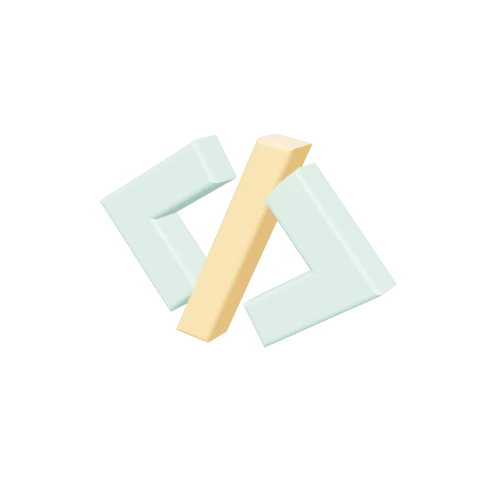
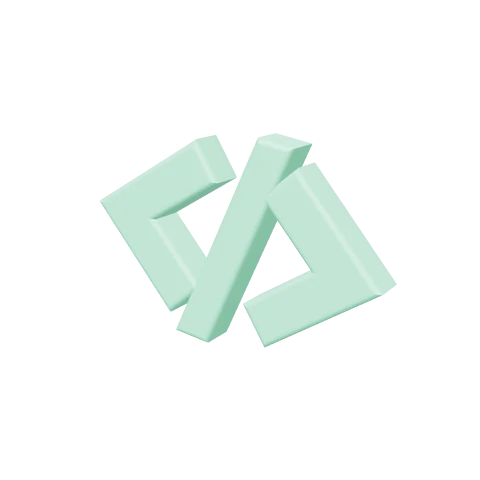
feat(site): warm hero palette, sticky header, centred back-to-top
- Hero and intro story use amber (#f2be7e) in light mode and salmon
  (#ef7e6c) in dark mode, with dark ink for AA contrast; the alternate
  section surface and hero chips follow the new hues, and the dark
  footer uses the salmon with the original dark text.
- Code glyph uses a matte version of the terminal prompt mint.
- Header turns into a fixed translucent bar once the opening story has
  scrolled past, so it never covers the terminal transition.
- Back-to-top sits at the bottom centre and hides over the footer,
  which has its own link.
- "Roots in Pará" becomes "Roots in the Amazon" in all locales.

Changed region(s): [[0.2188, 0.2812, 0.8438, 0.7188]]

diff --git a/apps/site/app/globals.css b/apps/site/app/globals.css
@@ -5,13 +5,14 @@
   --secondary: light-dark(#525e54, #bfcac1);
   --surface-line: light-dark(#c7cec5, #49584f);
   --coral: #ef604f;
-  --hero-coral: light-dark(#c44437, #4a2440);
-  --footer-coral: light-dark(#ef604f, #4a2440);
-  --surface-alt: light-dark(#f8e7e0, #2a1f28);
-  --hero-chip: light-dark(#ef604f, #5e2e52);
-  --footer-ink: light-dark(#34150f, #fff4e9);
-  --footer-accent: light-dark(#fffaf4, #f6c2b6);
-  --footer-line: light-dark(#823b3260, #fff4e940);
+  --hero-coral: light-dark(#f2be7e, #ef7e6c);
+  --hero-ink: #2a1712;
+  --footer-coral: light-dark(#ef604f, #ef7e6c);
+  --surface-alt: light-dark(#f9ecdc, #2d2321);
+  --hero-chip: light-dark(#f5cc96, #f29383);
+  --footer-ink: #34150f;
+  --footer-accent: light-dark(#fffaf4, #6b2a1e);
+  --footer-line: #823b3260;
   --ink: #191b1b;
   --paper: #f5f4f0;
   --mint: #d2e8d9;
@@ -33,7 +34,7 @@ html[data-theme="dark"] {
 }
 html {
   scroll-behavior: smooth;
-  scroll-padding-top: 30px;
+  scroll-padding-top: 96px;
 }
 body {
   margin: 0;
@@ -136,7 +137,7 @@ button:hover > .arrow {
   gap: 56px;
   align-items: center;
   padding: 25px 3.5%;
-  color: #fffaf4;
+  color: var(--hero-ink);
 }
 .brand {
   font-size: 49px;
@@ -223,7 +224,7 @@ button:hover > .arrow {
   display: flex;
   align-items: center;
   justify-content: center;
-  color: #fffaf4;
+  color: var(--hero-ink);
   isolation: isolate;
 }
 .hero-world {
@@ -280,7 +281,6 @@ button:hover > .arrow {
   letter-spacing: -0.068em;
   line-height: 1.03;
   margin: 0;
-  text-shadow: 0 1px 15px #83332712;
 }
 .hero h1 > span:first-child {
   display: block;
@@ -2245,7 +2245,6 @@ main[tabindex="-1"]:focus {
 }
 .hero h1 {
   font-size: clamp(60px, 7.5vw, 126px);
-  text-shadow: 0 2px 18px #732c2440;
 }
 .typed-line {
   font-size: 0.94em;
@@ -2873,7 +2872,7 @@ svg.solution-expand {
   .mobile-menu summary {
     list-style: none;
     padding: 10px;
-    color: #fffaf4;
+    color: var(--hero-ink);
   }
   .mobile-menu nav {
     position: absolute;
@@ -3145,9 +3144,9 @@ svg.solution-expand {
   box-shadow: none;
   padding-inline: 0;
   text-shadow:
-    0 1px 1px #ef604f,
-    0 0 10px #ef604f,
-    0 0 24px #ef604fd9;
+    0 1px 1px var(--hero-coral),
+    0 0 10px var(--hero-coral),
+    0 0 24px var(--hero-coral);
 }
 .hero-description {
   max-width: 560px;
@@ -3945,15 +3944,7 @@ a.footer-channel:hover .footer-channel-icon {
 .hero .hero-description,
 .hero .hero-start,
 .hero .hero-bottom {
-  color: #fffaf4;
-}
-.hero .eyebrow,
-.hero .hero-description,
-.hero .hero-start {
-  text-shadow: 0 2px 14px #3d17143d;
-}
-.hero h1 {
-  text-shadow: 0 2px 24px #3d17142e;
+  color: var(--hero-ink);
 }
 .footer-wordmark {
   display: inline-block;
@@ -3995,11 +3986,11 @@ a.footer-channel:hover .footer-channel-icon {
 .back-to-top {
   position: fixed;
   z-index: 9;
-  right: 22px;
-  bottom: 76px;
+  left: 50%;
+  bottom: 20px;
   opacity: 0;
   visibility: hidden;
-  translate: 0 12px;
+  translate: -50% 12px;
   transition:
     opacity 0.25s,
     translate 0.25s,
@@ -4008,7 +3999,7 @@ a.footer-channel:hover .footer-channel-icon {
 .back-to-top[data-visible="true"] {
   opacity: 1;
   visibility: visible;
-  translate: 0 0;
+  translate: -50% 0;
   transition:
     opacity 0.25s,
     translate 0.25s;
@@ -4034,8 +4025,7 @@ a.footer-channel:hover .footer-channel-icon {
 }
 @media (max-width: 767px) {
   .back-to-top {
-    right: 14px;
-    bottom: 66px;
+    bottom: 14px;
   }
 }
 @media (prefers-reduced-motion: reduce) {
@@ -4043,5 +4033,33 @@ a.footer-channel:hover .footer-channel-icon {
   .back-to-top[data-visible="true"],
   .back-to-top a {
     transition: none;
+  }
+}
+.site-header[data-stuck="true"] {
+  position: fixed;
+  z-index: 20;
+  padding-block: 12px;
+  color: var(--text);
+  background: color-mix(in srgb, var(--surface) 88%, transparent);
+  backdrop-filter: blur(14px) saturate(1.2);
+  border-bottom: 1px solid var(--surface-line);
+  animation: header-in 0.35s ease both;
+}
+.site-header[data-stuck="true"] > nav,
+.site-header[data-stuck="true"] .site-preferences,
+.site-header[data-stuck="true"] .mobile-menu summary {
+  color: var(--text);
+}
+.site-header[data-stuck="true"] .brand {
+  font-size: 36px;
+}
+@keyframes header-in {
+  from {
+    translate: 0 -100%;
+  }
+}
+@media (prefers-reduced-motion: reduce) {
+  .site-header[data-stuck="true"] {
+    animation: none;
   }
 }

diff --git a/apps/site/tests/site.test.tsx b/apps/site/tests/site.test.tsx
@@ -48,26 +48,49 @@ describe("institutional experience", () => {
     expect(location.hash).toBe("");
     expect(document.querySelectorAll('a[href^="#"]')).toHaveLength(0);
   });
-  it("offers a back-to-top control once the hero leaves the viewport", async () => {
-    let leave: (visible: boolean) => void = () => {};
+  it("reveals back-to-top and the sticky header after the opening story", async () => {
+    type Callback = (
+      entries: {
+        target: Element;
+        isIntersecting: boolean;
+        boundingClientRect: { top: number };
+      }[],
+    ) => void;
+    const watchers = new Map<Element, Callback>();
     vi.stubGlobal(
       "IntersectionObserver",
       class {
-        constructor(
-          callback: (entries: { isIntersecting: boolean }[]) => void,
-        ) {
-          leave = (visible) => callback([{ isIntersecting: visible }]);
+        constructor(private callback: Callback) {}
+        observe(target: Element) {
+          watchers.set(target, this.callback);
         }
-        observe() {}
         unobserve() {}
         disconnect() {}
       },
     );
-    const { container } = render(<SiteExperience />);
+    const { container } = render(
+      <div className="intro-story">
+        <SiteExperience />
+      </div>,
+    );
+    const leave = (target: Element | null) =>
+      act(() =>
+        watchers.get(target as Element)?.([
+          {
+            target: target as Element,
+            isIntersecting: false,
+            boundingClientRect: { top: -100 },
+          },
+        ]),
+      );
     const control = container.querySelector(".back-to-top");
+    const header = container.querySelector(".site-header");
     expect(control).toHaveAttribute("data-visible", "false");
-    act(() => leave(false));
+    expect(header).toHaveAttribute("data-stuck", "false");
+    leave(document.getElementById("inicio"));
     expect(control).toHaveAttribute("data-visible", "true");
+    leave(document.querySelector(".intro-story"));
+    expect(header).toHaveAttribute("data-stuck", "true");
     await userEvent.click(within(control as HTMLElement).getByRole("link"));
     expect(document.activeElement).toHaveAttribute("id", "conteudo");
     expect(screen.queryByText(/Imagem pública da marca/)).toBeNull();

diff --git a/apps/site/components/site-experience.tsx b/apps/site/components/site-experience.tsx
@@ -181,6 +181,7 @@ export function SiteExperience({ locale = "pt-BR" }: { locale?: Locale }) {
   const router = useRouter();
   const [paused, setPaused] = useState(false);
   const [scrolled, setScrolled] = useState(false);
+  const [stuck, setStuck] = useState(false);
   const [theme, setTheme] = useState("system");
   const [chatOpen, setChatOpen] = useState(false);
   const [recommendation, setRecommendation] = useState(0);
@@ -217,14 +218,26 @@ export function SiteExperience({ locale = "pt-BR" }: { locale?: Locale }) {
     document
       .querySelectorAll("[data-reveal]")
       .forEach((element) => observer.observe(element));
-    const top = new IntersectionObserver(([entry]) =>
-      setScrolled(!entry.isIntersecting),
-    );
+    const edges = new Map<Element, boolean>();
+    const top = new IntersectionObserver((entries) => {
+      entries.forEach((entry) =>
+        edges.set(entry.target, entry.isIntersecting),
+      );
+      setScrolled(![...edges.values()].some(Boolean));
+    });
     const start = document.getElementById("inicio");
+    const footer = document.querySelector(".site-footer");
     if (start) top.observe(start);
+    if (footer) top.observe(footer);
+    const header = new IntersectionObserver(([entry]) =>
+      setStuck(!entry.isIntersecting && entry.boundingClientRect.top < 0),
+    );
+    const story = document.querySelector(".intro-story");
+    if (story) header.observe(story);
     return () => {
       observer.disconnect();
       top.disconnect();
+      header.disconnect();
     };
   }, [locale]);
 
@@ -266,7 +279,7 @@ export function SiteExperience({ locale = "pt-BR" }: { locale?: Locale }) {
       <SectionLink target="conteudo" className="skip-link">
         {copy.skip}
       </SectionLink>
-      <header className="site-header">
+      <header className="site-header" data-stuck={stuck}>
         <SectionLink target="inicio" className="brand" label={copy.home}>
           irtc<span aria-hidden="true">✳</span>
         </SectionLink>

diff --git a/apps/site/lib/studio-scene.ts b/apps/site/lib/studio-scene.ts
@@ -59,19 +59,11 @@ function createMaterials() {
       roughness: 0.25,
       clearcoat: 1,
     }),
-    pastelMint: new THREE.MeshPhysicalMaterial({
-      color: 0x8fcfb2,
+    prompt: new THREE.MeshStandardMaterial({
+      color: 0x5fae8a,
       metalness: 0,
-      roughness: 0.5,
-      clearcoat: 0.25,
-      clearcoatRoughness: 0.4,
-    }),
-    pastelOrange: new THREE.MeshPhysicalMaterial({
-      color: 0xf7ad55,
-      metalness: 0,
-      roughness: 0.5,
-      clearcoat: 0.25,
-      clearcoatRoughness: 0.4,
+      roughness: 0.8,
+      envMapIntensity: 0.3,
     }),
   };
 }
@@ -137,7 +129,7 @@ function buildCode(body: THREE.Group, parts: Part[], materials: Materials) {
           [-1.2, 0],
           [-0.4, 0.7],
         ],
-        materials.pastelMint,
+        materials.prompt,
       ),
       [-3, 1.4, -2],
       [0, -1.4, 0],
@@ -153,7 +145,7 @@ function buildCode(body: THREE.Group, parts: Part[], materials: Materials) {
           [0.7, -1.05],
           [1.9, 0],
         ],
-        materials.pastelMint,
+        materials.prompt,
       ),
       [3, -1, 1.5],
       [0, 1.4, 0],
@@ -167,7 +159,7 @@ function buildCode(body: THREE.Group, parts: Part[], materials: Materials) {
           [-0.14, -1.3],
           [0.54, 1.3],
         ],
-        materials.pastelOrange,
+        materials.prompt,
       ),
       [0, 2.8, 2],
       [0, 0, 0.8],

diff --git a/apps/site/lib/content.ts b/apps/site/lib/content.ts
@@ -180,7 +180,7 @@ export const content = {
     },
     origin: {
       label: "DE BELÉM, CONECTADOS AO SEU NEGÓCIO.",
-      title: "Raízes no Pará.",
+      title: "Raízes na Amazônia.",
       accent: "Projetos sem fronteiras.",
       body: "Nossa base é Belém. Nosso dia a dia conecta pessoas, produtos e operações de diferentes lugares. Trabalhamos de perto, mesmo quando a equipe está longe.",
       vision:
@@ -435,7 +435,7 @@ export const content = {
     },
     origin: {
       label: "BASED IN BELÉM. CONNECTED TO YOUR BUSINESS.",
-      title: "Roots in Pará.",
+      title: "Roots in the Amazon.",
       accent: "Projects without borders.",
       body: "Belém is home. Our work connects people, products and operations across different places. We stay close to your team, wherever you are.",
       vision:
@@ -690,7 +690,7 @@ export const content = {
     },
     origin: {
       label: "DESDE BELÉM, CONECTADOS A TU NEGOCIO.",
-      title: "Raíces en Pará.",
+      title: "Raíces en la Amazonía.",
       accent: "Proyectos sin fronteras.",
       body: "Nuestra base está en Belém. Cada día conectamos personas, productos y operaciones de distintos lugares. Trabajamos cerca de tu equipo, estés donde estés.",
       vision:
